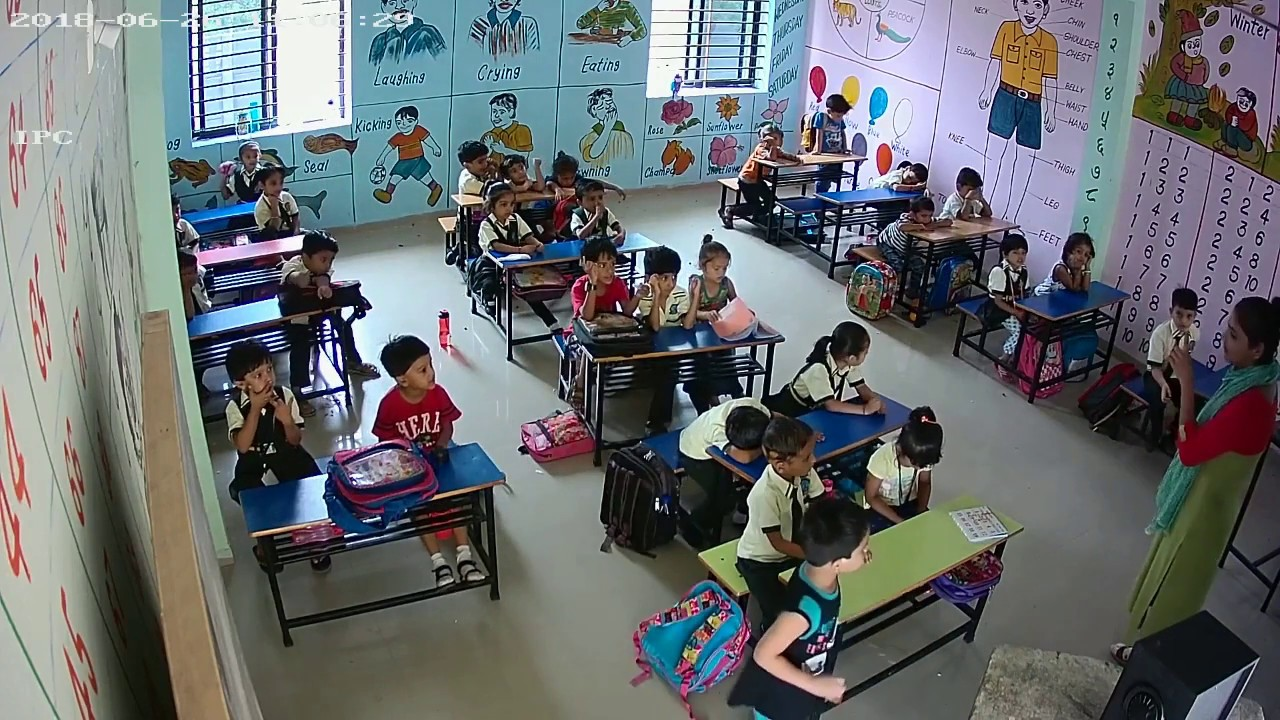
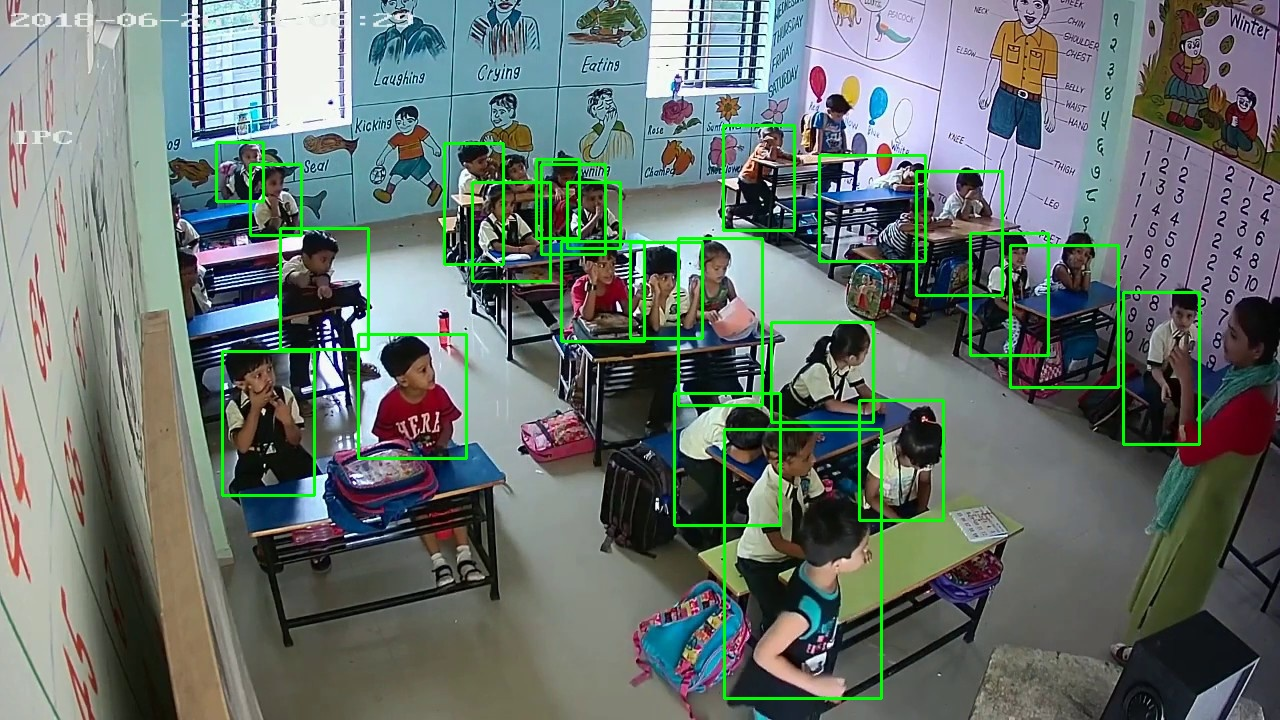
Display CCTV footage onsearch

Changed region(s): [[0.3438, 0.1528, 0.9375, 0.9778], [0.1562, 0.1833, 0.375, 0.7028]]

diff --git a/app.py b/app.py
@@ -1,9 +1,9 @@
-from flask import Flask, render_template, redirect, url_for, request
+from flask import Flask, render_template, redirect, url_for, request, send_from_directory
 from detection import getHumanCount, getCctvImage
 from flask_wtf import FlaskForm
 from wtforms import StringField, SubmitField
 
-app = Flask(__name__, template_folder='./templates')
+app = Flask(__name__, template_folder='./templates', static_folder='./assets/')
 app.config['SECRET_KEY'] = 'doyougetdejavu?'
 
 classrooms = [
@@ -11,39 +11,53 @@ classrooms = [
                 'AC201', 'AC202', 'AC203', 'AC204'             
              ]
 
+def renderForm():
+    return '''
+        <form method="post">
+            <input type="text" id="searchBar" name="searchBar" placeholder="Enter Classroom name...">
+            <input type="submit" value="Submit">
+        </form>
+    '''
+
+def renderErrorMessage(searchValue):
+    form = renderForm();
+    return f'''
+        <h3>Incorrect classroom name entered: {searchValue}</h3>
+        {form}
+        <p>Available classrooms:</p>
+        <ul>
+            {''.join(f"<li>{classroom}</li>" for classroom in classrooms)}
+        </ul>
+    '''
+
+def renderResult(searchValue, humanCount):
+    image_url = url_for('static', filename="output.jpg")
+    return f'''
+        <h1>Hello, World! This classroom has {humanCount} students!</h1>
+        <form method="post">
+            <input type="text" id="searchBar" name="searchBar" placeholder="Enter Classroom name...">
+            <input type="submit" value="Submit">
+        </form>
+        <h1>Search Value: {searchValue}</h1>
+        <img src="{image_url}" alt="Classroom Image">
+    '''
 @app.route('/', methods=['GET', 'POST'])
 def hello_world():
 
-    path = "./assets/cctv/"
-    human_count = getHumanCount(path)
-    print(human_count)
-    htmlString = f'''
-            <form method="post">
-                <input type="text" id="searchBar" name="searchBar" placeholder="Enter Classroom name...">
-                <input type="submit" value="Submit">
-            </form>
-           '''    
+    path = "./static/cctv0.jpg"
+    humanCount = getHumanCount(path)
+    print(humanCount)
+    htmlString = renderForm() 
     
     if request.method == 'POST':
         searchValue = request.form['searchBar']
         print("Search value:", searchValue)
         if(searchValue not in classrooms):
-            htmlString += f'<h3> Incorrect classroom name entered. </h3>'
-            htmlString += f'<ul>'
-            for i in range(0,len(classrooms)):
-                htmlString += f'<li>{classrooms[i]}</li> </br>'
-            htmlString += f'</ul>'
+            htmlString = renderErrorMessage(searchValue)
         else:
             path=f"./assets/cctv/{searchValue}.jpg"
-            human_count = getHumanCount(path)
-            htmlString = f'''
-                <h1>Hello, World! This world has {str(human_count)} humans!</h1>
-                <form method="post">
-                    <input type="text" id="searchBar" name="searchBar" placeholder="Enter Classroom name...">
-                    <input type="submit" value="Submit">
-                </form>
-            '''
-            htmlString += f"<h1>Search Value : {searchValue}</h1>"
+            humanCount = getHumanCount(path)
+            htmlString = renderResult(searchValue,humanCount)
     
     return htmlString
 

diff --git a/detection.py b/detection.py
@@ -127,7 +127,9 @@ def getHumanCount(path):
     print("Number of humans detected:", human_count)
 
     # Display the image with bounding boxes
+    
     # cv2.imshow("Image", image)
+    cv2.imwrite("./assets/output.jpg",image)
     # key = -1
     # key = cv2.waitKey(0)
 
